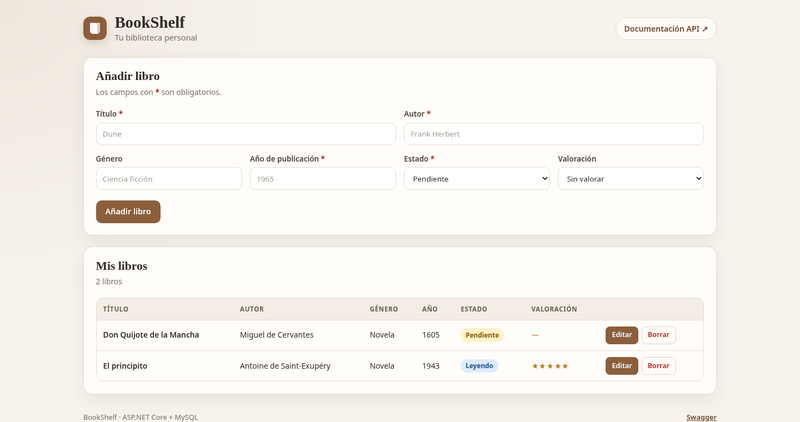
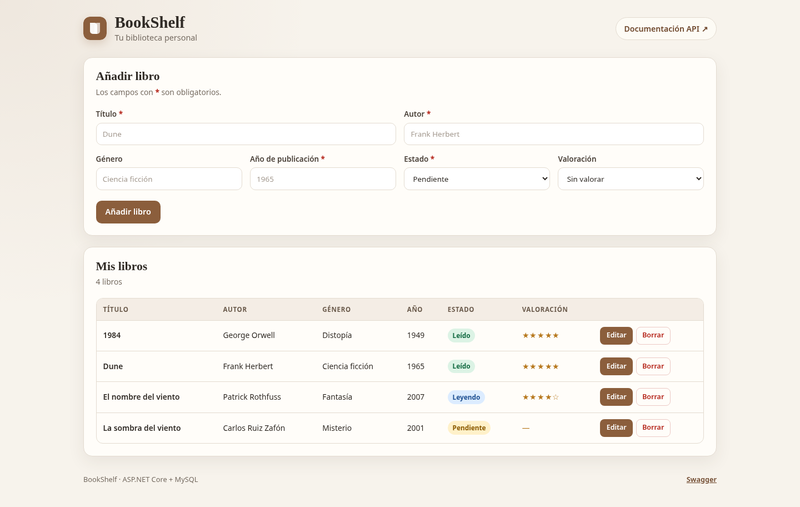
docs: actualizar captura de BookShelf

diff --git a/index.html b/index.html
@@ -122,7 +122,7 @@
               src="img/bookshelf.png"
               alt="Captura de BookShelf con el formulario y la tabla de libros"
               width="800"
-              height="422"
+              height="507"
               loading="lazy"
             />
             <div class="proyecto-contenido">
